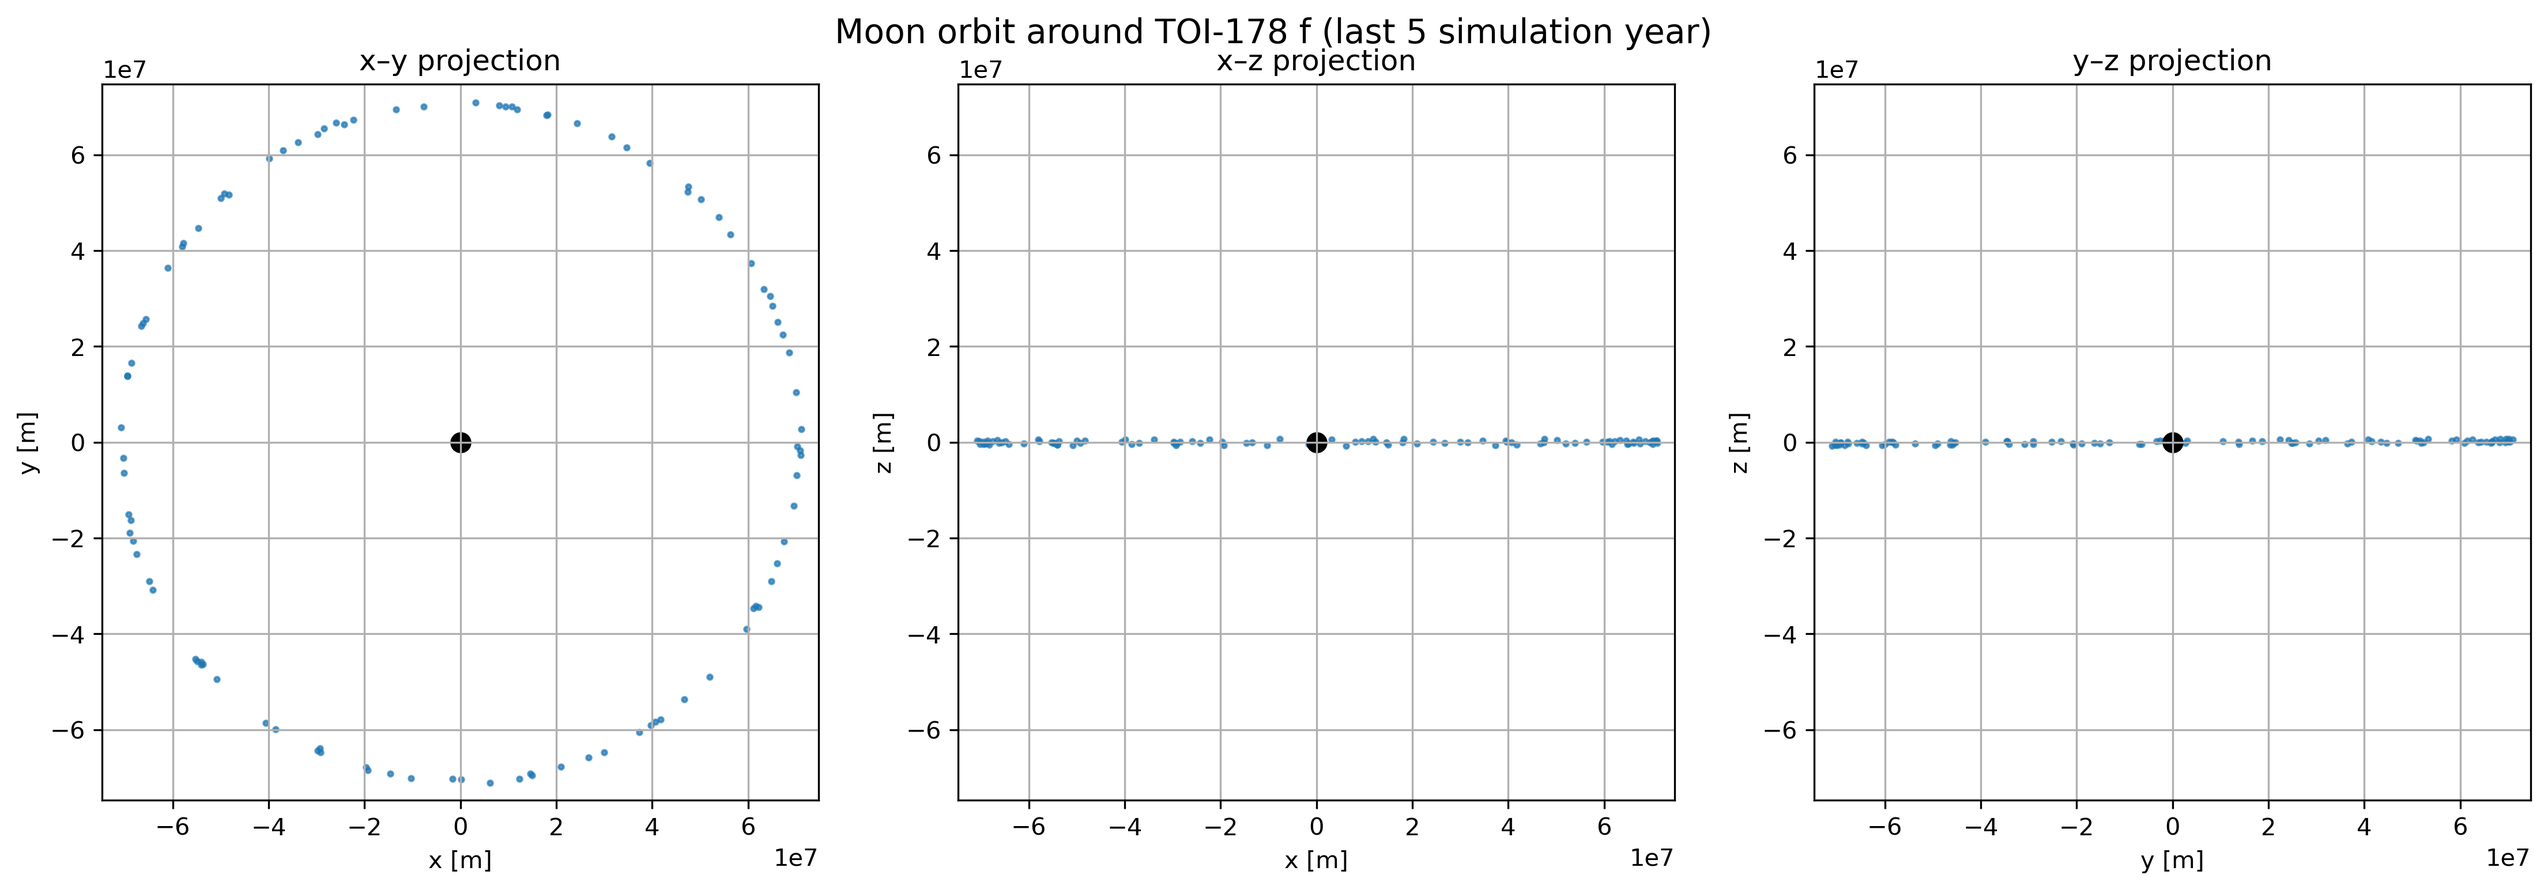
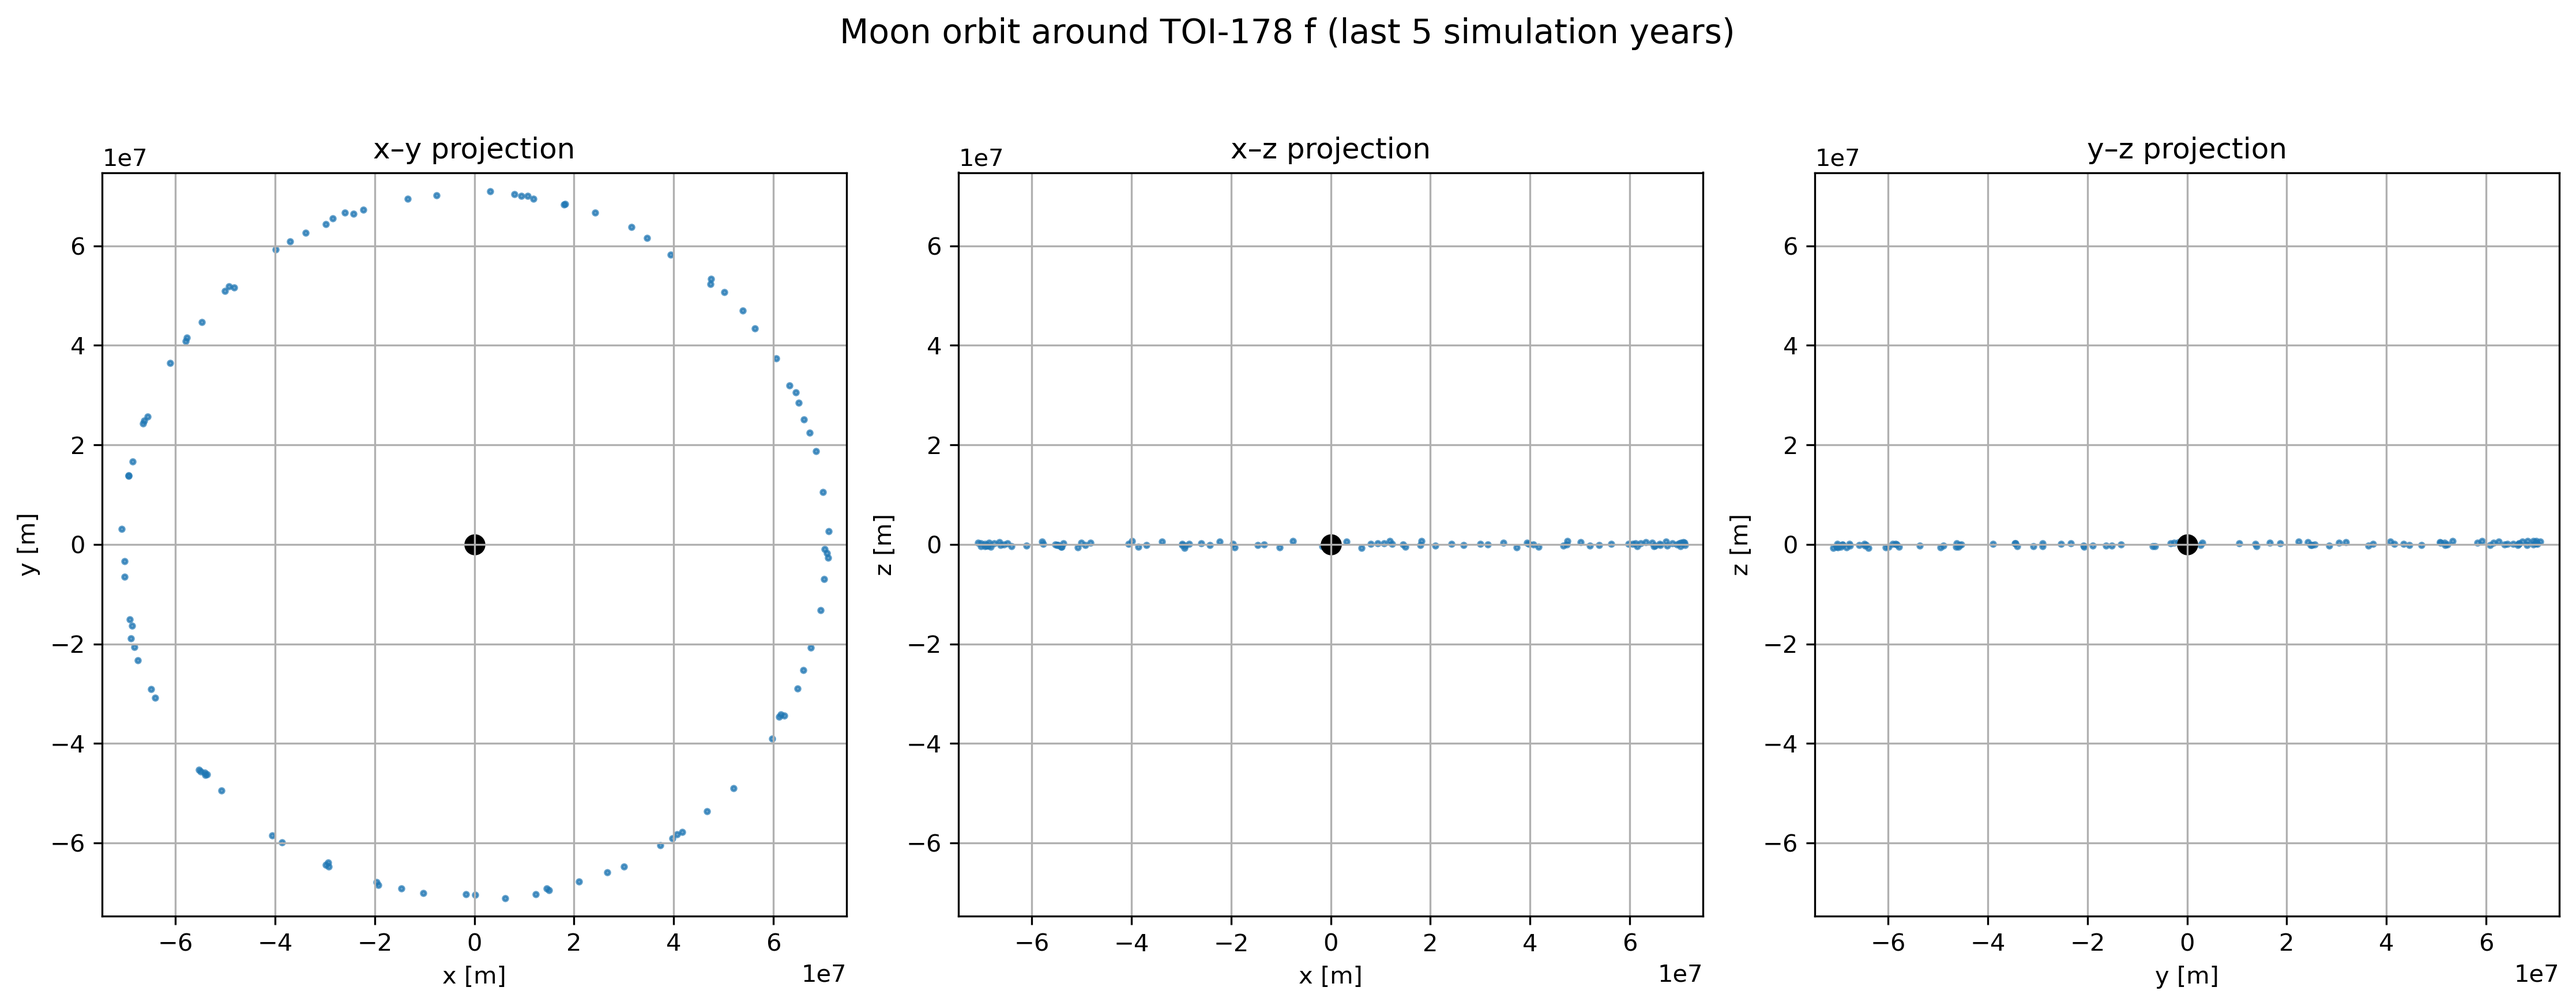
update

diff --git a/Rebound_simulation/moon_checks.py b/Rebound_simulation/moon_checks.py
@@ -39,21 +39,22 @@ fig, axes = plt.subplots(2, 1, figsize=(12, 9), sharex=True)
 axes = axes.flatten()
 
 # Plot semi major axis
-axes[0].plot(time_years, sma[:, 6], color='blue', marker='.', linestyle='none', markersize=2, label='Moon SMA')
-axes[0].set_ylabel('Semi Major Axis (AU)', fontsize=14)
-axes[0].set_title('Semi Major Axis of the Moon over Time', fontsize=16)
+axes[0].plot(time_years, sma[:, 6], color='blue', marker='.', linestyle='none', markersize=2, label='sma of moon')
+axes[0].set_ylabel('Semi Major Axis [AU]', fontsize=14)
+axes[0].set_title('Semi Major Axis of the moon over time', fontsize=16)
 axes[0].grid()
 # y-Achse von 0 bis 0.2 AU
 axes[0].set_ylim(0, 0.2)
 # zum Vergleich plot der sma von Planet f und g
-axes[0].plot(time_years, sma[:, 4], color='green', label='Planet f SMA')
-axes[0].plot(time_years, sma[:, 5], color='orange', label='Planet g SMA')
+axes[0].plot(time_years, sma[:, 4], color='green', label='sma of Planet f')
+axes[0].plot(time_years, sma[:, 5], color='orange', label='sma of Planet g')
 axes[0].legend(fontsize=12)
 
 # Plot eccentricity
-axes[1].plot(time_years, ecc[:, 6], color='red', marker='.', linestyle='none', markersize=2, label='Moon Eccentricity')
+axes[1].plot(time_years, ecc[:, 6], color='red', marker='.', linestyle='none', markersize=2, label='eccentricity of moon')
 axes[1].set_ylabel('Eccentricity', fontsize=14)
-axes[1].set_title('Eccentricity of the Moon over Time', fontsize=16)
+axes[1].set_xlabel('Time [years]', fontsize=14)
+axes[1].set_title('Eccentricity of the moon over time', fontsize=16)
 axes[1].grid()
 axes[1].legend(fontsize=12)
 

diff --git a/Rebound_simulation/moon_orbit_last_year.py b/Rebound_simulation/moon_orbit_last_year.py
@@ -31,7 +31,7 @@ lim = 1.05 * max_extent   # kleiner Rand
 # -----------------------------
 # Plot
 # -----------------------------
-fig, axes = plt.subplots(1, 3, figsize=(15,5))
+fig, axes = plt.subplots(1, 3, figsize=(15,6))
 
 # xy plot
 axes[0].scatter(x, y, s=4, alpha=0.7)
@@ -66,7 +66,7 @@ axes[2].set_ylim(-lim, lim)
 axes[2].set_aspect("equal")
 axes[2].grid(True)
 
-plt.suptitle(f"Moon orbit around TOI-178 f (last {N_years} simulation year)", fontsize=14)
+plt.suptitle(f"Moon orbit around TOI-178 f (last {N_years} simulation years)", fontsize=14)
 plt.tight_layout()
 plt.savefig(f"plots/moon_orbit_3projections_last_{N_years}_years.png", dpi=300, bbox_inches="tight")
 plt.close()

diff --git a/Rebound_simulation/sim_with_moon.py b/Rebound_simulation/sim_with_moon.py
@@ -116,9 +116,9 @@ def setupSimulation():
   sim.G = 6.6743e-11
 
   # moon parameters
-  moon_mass = 0.001*masses[5]
   a_moon = 0.2*Rh[4]    # semi-major axis of the moon around planet f; moon blieb mit 0.2Rh im Orbit stabil
   r_moon = 0.001*Rh[4]  # radius of the moon
+  moon_mass = 0.001*masses[5]
   
   # placing the planets and the star
 
